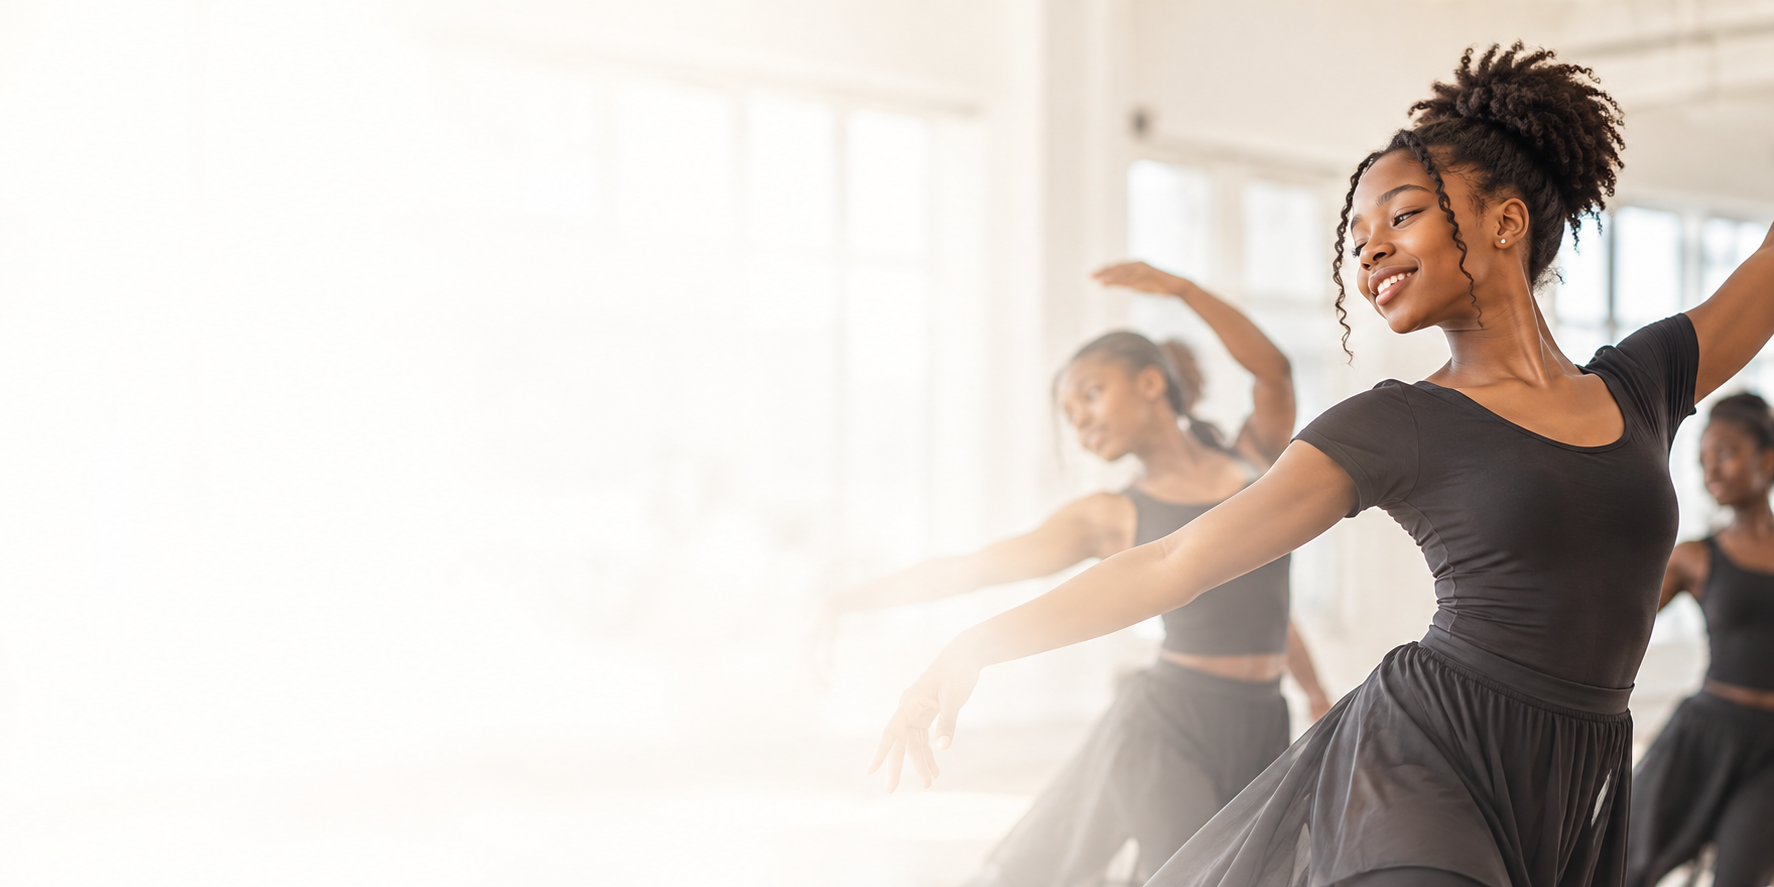
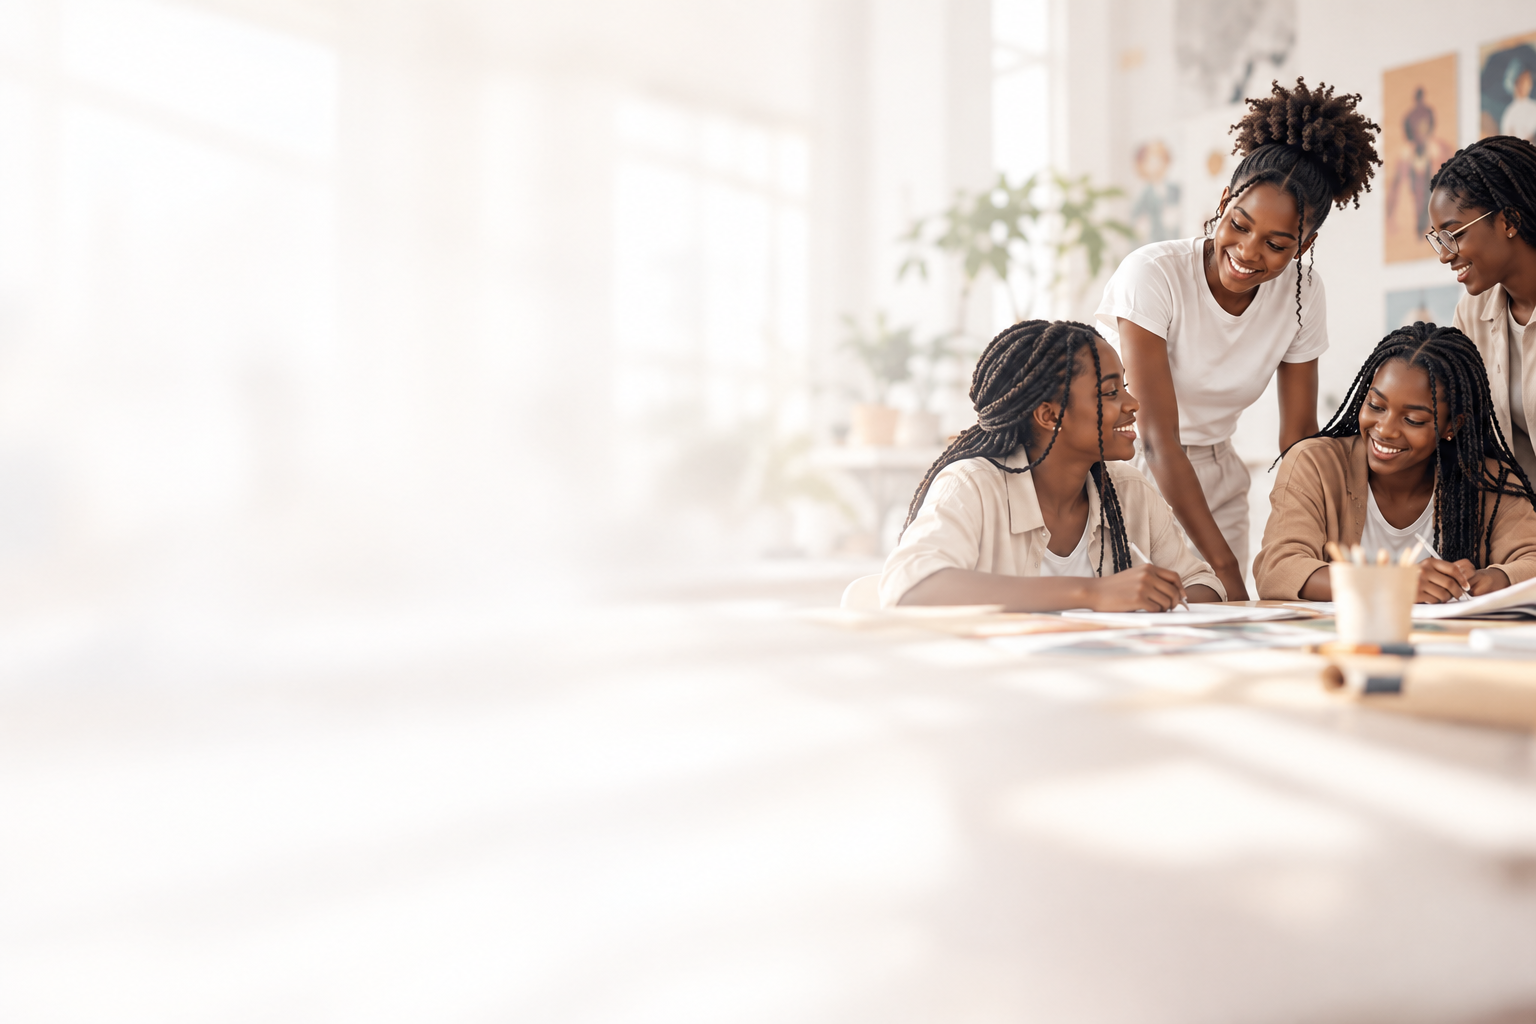
fix(get-involved): improve background image blur and opacity for better text readability

diff --git a/app/get-involved/page.js b/app/get-involved/page.js
@@ -199,17 +199,17 @@ export default function GetInvolvedPage() {
         </section>
 
         <section id="partner-types" data-theme="light" className={`relative overflow-hidden ${SECTION}`}>
-          {/* Full-bleed background photo behind the whole section, blurred + washed with the page's own
-              light background colour so the existing dark-on-light text and cards stay exactly as
-              readable as before — the photo sits behind everything, never inside the card layout. */}
+          {/* Full-bleed background photo behind the whole section, lightly blurred + washed with the page's
+              own light background colour: enough to keep the dark-on-light text readable while the photo
+              stays recognizable. It sits behind everything, never inside the card layout. */}
           <div aria-hidden="true" className="absolute inset-0 -z-10">
             {/* eslint-disable-next-line @next/next/no-img-element */}
             <img
               src="/get-involved-partner-with-us.PNG"
               alt=""
-              className="h-full w-full scale-110 object-cover blur-xl"
+              className="h-full w-full scale-110 object-cover blur-sm"
             />
-            <div className="absolute inset-0 bg-brand-ivory/90" />
+            <div className="absolute inset-0 bg-brand-ivory/65" />
           </div>
           <div className={CONTAINER}>
             <SectionHeader label="Partner With Us" />
